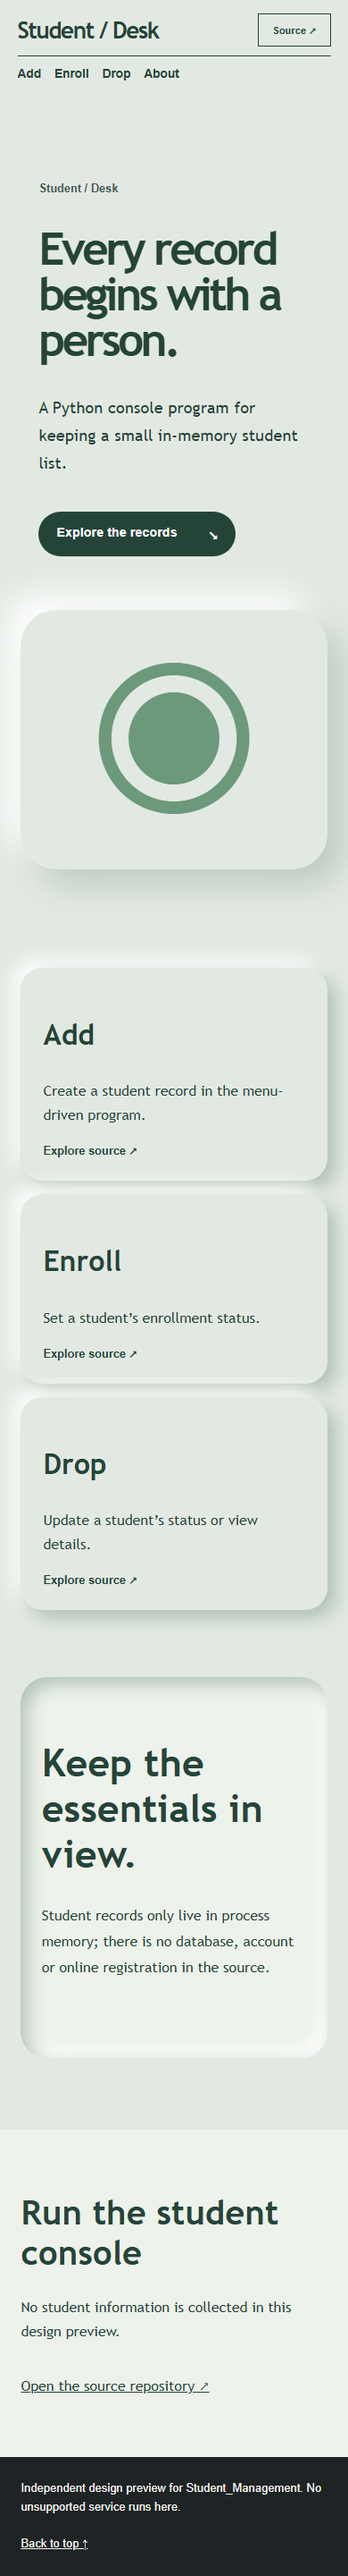
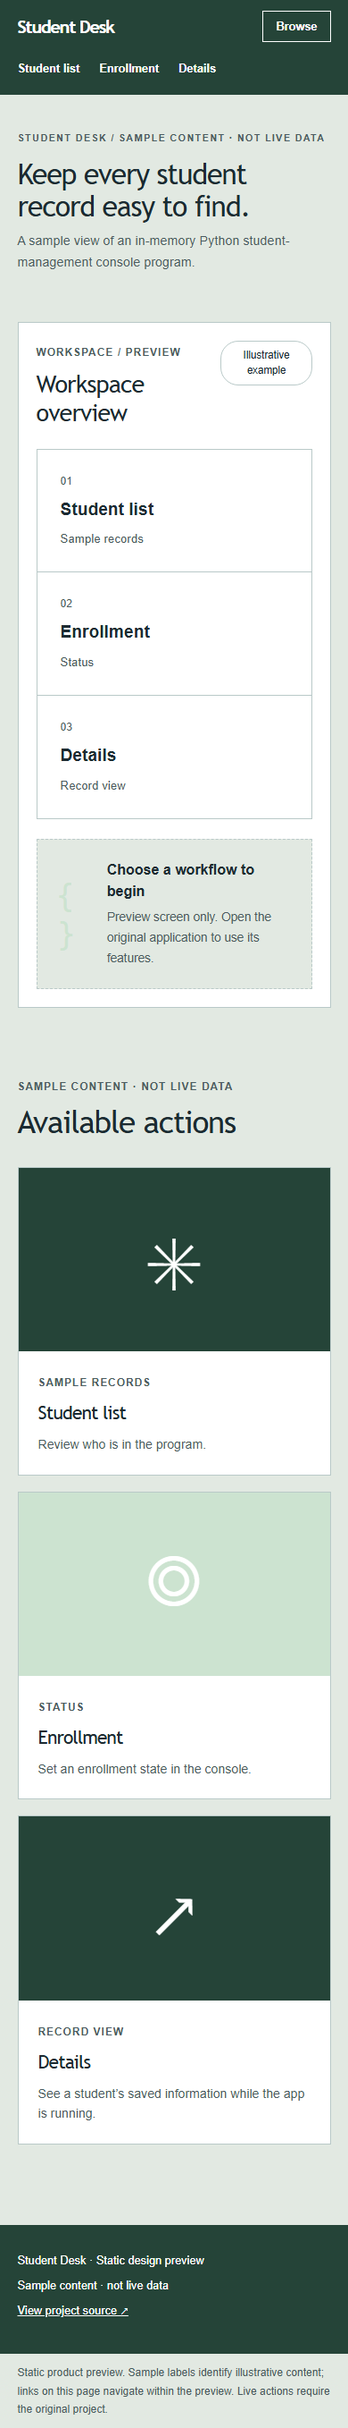
feat: show product-first static homepage preview

diff --git a/showcase-design/product.css b/showcase-design/product.css
@@ -1,0 +1,27 @@
+:root{--p-bg:#e2e9e2;--p-ink:#1c2b31;--p-accent:#cce3d0;--p-card:#ffffff;--p-muted:#4c5c61;--p-border:#b9c9c8;--p-head:#254438;--p-head-ink:#ffffff;}
+
+/* Product-first preview. Preserve the original design's palette and assets. */
+body.product-page{background:var(--p-bg);color:var(--p-ink);font-family:Arial,'Segoe UI',sans-serif;line-height:1.5;margin:0}
+.product-page *{box-sizing:border-box}.product-page a{color:inherit}.product-page a:focus-visible{outline:3px solid var(--p-accent);outline-offset:4px}.product-page h1,.product-page h2,.product-page h3{overflow-wrap:anywhere;letter-spacing:-.035em}.product-page p{max-width:68ch}
+.p-skip{position:absolute;top:-90px;left:12px;background:var(--p-card);padding:10px;z-index:10}.p-skip:focus{top:10px}
+.p-nav{min-height:76px;display:flex;align-items:center;gap:24px;padding:12px 5%;background:var(--p-head);color:var(--p-head-ink)}
+.p-brand{text-decoration:none;font:bold clamp(1.25rem,2vw,1.9rem)/1.1 Georgia,serif;letter-spacing:-.06em;flex:0 0 auto}
+.p-nav nav{display:flex;gap:22px;margin-left:auto;overflow-x:auto;scrollbar-width:thin}.p-nav nav a,.p-nav-extra{font:600 .8rem Arial,sans-serif;text-decoration:none;white-space:nowrap}.p-nav nav a:hover,.p-nav-extra:hover{text-decoration:underline;text-underline-offset:4px}.p-nav-extra{border:1px solid currentColor;padding:9px 14px}
+.p-heading{display:grid;grid-template-columns:1.2fr .8fr;min-height:470px;align-items:stretch;border-bottom:1px solid var(--p-border)}.p-copy{padding:72px 7% 64px 9%;display:flex;flex-direction:column;justify-content:center}.p-overline,.p-item small,.p-section-title small,.p-work-head small,.p-newspaper .p-edition{font:700 .72rem Arial,sans-serif;text-transform:uppercase;letter-spacing:.11em;color:var(--p-muted)}
+.p-heading h1{font:normal clamp(3rem,5vw,5.6rem)/1.03 Georgia,serif;margin:18px 0}.p-copy>p{font-size:1.05rem;color:var(--p-muted);line-height:1.7}.p-action{align-self:flex-start;padding:13px 20px;border:1px solid var(--p-ink);text-decoration:none;margin-top:16px;font:700 .87rem Arial,sans-serif}.p-action:hover{background:var(--p-head);color:var(--p-head-ink)}
+.p-hero-image,.p-hero-graphic{min-height:340px;background:var(--p-head);display:grid;place-items:center;overflow:hidden}.p-hero-image img{width:100%;height:100%;max-height:560px;object-fit:cover}.p-hero-graphic span{color:var(--p-accent);font:normal clamp(11rem,25vw,27rem)/1 Georgia,serif}
+.p-newspaper{text-align:center;padding:34px 5% 25px;border-block:3px double var(--p-border)}.p-newspaper h1{font:normal clamp(3.5rem,8vw,8rem)/1 Georgia,serif;margin:14px 0;letter-spacing:-.06em}.p-newspaper p{margin:auto;color:var(--p-muted)}
+.p-front{display:grid;grid-template-columns:1.65fr .8fr;margin:36px 5%;border-block:1px solid var(--p-border)}.p-lead{padding:38px 5% 42px 0;border-right:1px solid var(--p-border)}.p-lead h2{font:normal clamp(2.8rem,5vw,5.5rem)/1.07 Georgia,serif;max-width:14ch;margin:20px 0}.p-lead p{color:var(--p-muted)}.p-front aside{padding:30px 0 25px 8%}.p-front aside>b{font-size:1rem}.p-front aside a{display:flex;gap:20px;padding:20px 0;border-bottom:1px solid var(--p-border);text-decoration:none}.p-front aside span{font-size:.8rem;color:var(--p-muted)}
+.p-shopbar{display:flex;justify-content:space-between;align-items:center;gap:22px;flex-wrap:wrap;padding:28px 5%;background:var(--p-card);border-block:1px solid var(--p-border)}.p-shopbar b{font:normal 1.6rem Georgia,serif}.p-shopbar span{font-size:.85rem;color:var(--p-muted)}.p-shopbar a{font-size:.85rem}
+.p-workspace{margin:42px 5% 30px;padding:30px;background:var(--p-card);border:1px solid var(--p-border)}.p-work-head{display:flex;justify-content:space-between;align-items:center;gap:20px}.p-work-head h2{font:normal clamp(1.7rem,3vw,2.8rem) Georgia,serif;margin:8px 0 25px}.p-chip{font-size:.72rem;padding:7px 10px;border:1px solid var(--p-border);border-radius:20px}.p-steps{display:grid;grid-template-columns:repeat(3,minmax(0,1fr));border:1px solid var(--p-border)}.p-steps a{padding:26px;border-right:1px solid var(--p-border);text-decoration:none;display:grid;gap:9px}.p-steps a:last-child{border-right:0}.p-steps a:hover{background:var(--p-bg)}.p-steps a>span{font-size:.75rem;color:var(--p-muted)}.p-steps a>b{font-size:1.2rem}.p-steps a>small{color:var(--p-muted)}.p-preview{margin-top:22px;min-height:116px;display:flex;align-items:center;gap:26px;padding:22px;background:var(--p-bg);border:1px dashed var(--p-border)}.p-preview-mark{font:2.3rem Consolas,monospace;color:var(--p-accent)}.p-preview p{margin:5px 0 0;color:var(--p-muted);font-size:.85rem}
+.p-collection{padding:64px 5% 90px}.p-section-title{display:flex;justify-content:space-between;gap:25px;align-items:end;margin-bottom:30px}.p-section-title h2{font:normal clamp(2rem,4vw,4rem)/1.1 Georgia,serif;margin:10px 0 0}.p-section-title p{font-size:.8rem;color:var(--p-muted);max-width:23rem;margin:0}.p-grid{display:grid;grid-template-columns:repeat(3,minmax(0,1fr));gap:18px}.p-item{border:1px solid var(--p-border);background:var(--p-card);min-width:0}.p-image{aspect-ratio:1.7;overflow:hidden;display:grid;place-items:center;background:var(--p-head)}.p-image img{width:100%;height:100%;object-fit:cover}.p-image>span{font:normal 5rem Georgia,serif;color:var(--p-accent)}.p-item:nth-child(2) .p-image{background:var(--p-accent)}.p-item:nth-child(2) .p-image span{color:var(--p-head)}.p-item-info{padding:22px}.p-item h3{font:normal clamp(1.3rem,2.2vw,2rem)/1.1 Georgia,serif;margin:12px 0}.p-item p{font-size:.88rem;color:var(--p-muted);line-height:1.6;margin:0}
+.product-news .p-grid,.product-news_bn .p-grid{grid-template-columns:1.3fr 1fr 1fr}.product-news .p-image,.product-news_bn .p-image{aspect-ratio:2.3;background:var(--p-head)}.product-news .p-item,.product-news_bn .p-item{border-width:0 0 1px 0;background:transparent}.product-news .p-item-info,.product-news_bn .p-item-info{padding-left:0}
+.product-store .p-image,.product-commerce .p-image{aspect-ratio:1.1}.product-events .p-item{border-top:4px solid var(--p-accent)}.product-game .p-image,.product-compiler .p-image,.product-notebook .p-image{background:var(--p-head);aspect-ratio:2.4}.product-portfolio .p-grid,.product-architecture .p-grid{gap:28px}.product-empty .p-collection{min-height:470px}
+.p-app-intro{padding:35px 5% 12px}.p-app-intro span{font:700 .7rem Arial,sans-serif;letter-spacing:.1em;text-transform:uppercase;color:var(--p-muted)}.p-app-intro h1{font:normal clamp(2rem,3.5vw,3.6rem)/1.12 Georgia,serif;margin:12px 0 8px}.p-app-intro p{font-size:.9rem;color:var(--p-muted);margin:0}.p-app-intro+.p-workspace{margin-top:14px}.p-story-label{display:inline-block;margin-top:20px;font-size:.8rem;border-top:1px solid var(--p-border);padding-top:12px}
+.product-events .p-heading,.product-store .p-heading,.product-commerce .p-heading{min-height:320px;grid-template-columns:1.25fr .75fr}.product-events .p-copy,.product-store .p-copy,.product-commerce .p-copy{padding-block:38px}.product-events .p-heading h1,.product-store .p-heading h1,.product-commerce .p-heading h1{font-size:clamp(2.7rem,4vw,4.7rem)}
+.p-image>span{color:var(--p-head-ink)}.p-item:nth-child(2) .p-image span{color:var(--p-head-ink)}.product-news .p-grid,.product-news_bn .p-grid{grid-template-columns:1fr 1fr}.product-news .p-item,.product-news_bn .p-item{border-width:1px 0 0 0;background:transparent}.product-news .p-item-info,.product-news_bn .p-item-info{padding:24px 0}.product-news .p-item h3,.product-news_bn .p-item h3{font-size:clamp(1.7rem,3vw,3rem)}
+.p-brand,.p-heading h1,.p-app-intro h1,.p-newspaper h1,.p-lead h2,.p-work-head h2,.p-section-title h2,.p-item h3{font-family:var(--display,var(--serif,var(--font,Georgia,serif)))}
+.p-footer{padding:30px 5%;display:flex;justify-content:space-between;flex-wrap:wrap;gap:16px;background:var(--p-head);color:var(--p-head-ink);font-size:.8rem}.p-footer a{color:inherit}.p-disclosure{max-width:none!important;padding:11px 5%;margin:0;font-size:.75rem;background:var(--p-bg);color:var(--p-muted)}
+@media(max-width:800px){.p-nav{flex-wrap:wrap;gap:12px}.p-nav nav{order:3;width:100%;padding:10px 0;margin-left:0}.p-nav-extra{margin-left:auto}.p-heading{display:block;min-height:0}.p-copy{padding:54px 6%}.p-heading h1{font-size:clamp(2.6rem,9vw,5rem)}.p-hero-image,.p-hero-graphic{height:260px;min-height:260px}.p-hero-graphic span{font-size:13rem}.p-front{display:block}.p-lead{border-right:0;border-bottom:1px solid var(--p-border)}.p-front aside{padding:25px 0}.p-grid{grid-template-columns:repeat(2,minmax(0,1fr))!important}.p-steps{grid-template-columns:1fr}.p-steps a{border-bottom:1px solid var(--p-border);border-right:0!important}.p-steps a:last-child{border-bottom:0}.p-section-title{display:block}.p-section-title p{margin-top:15px}.p-workspace{padding:20px}}
+@media(max-width:550px){.p-grid{grid-template-columns:1fr!important}.p-collection{padding-top:45px}.p-section-title h2{font-size:2.2rem}.p-work-head{align-items:flex-start}.p-chip{max-width:115px;text-align:center}.p-front{margin-top:18px}.p-newspaper h1{font-size:3rem}.p-footer{display:block}.p-footer>*{display:block;margin-bottom:9px}}
+@media(prefers-reduced-motion:reduce){html{scroll-behavior:auto}}

diff --git a/showcase-design/index.html b/showcase-design/index.html
@@ -1,1 +1,1 @@
-<!doctype html><html lang="en"><head><meta charset="utf-8"><meta name="viewport" content="width=device-width,initial-scale=1"><meta name="description" content="A Python console program for keeping a small in-memory student list."><title>Student / Desk — Every record begins with a person.</title><link rel="stylesheet" href="styles.css"></head><body><a class="skip" href="#main">Skip to content</a><header class="mast" id="top"><a class="brand" href="#top">Student / Desk</a><nav aria-label="Main navigation"><a href="#topic-0">Add</a><a href="#topic-1">Enroll</a><a href="#topic-2">Drop</a><a href="#about">About</a></nav><a class="top-action" href="https://github.com/Athaher-Sayem/Student_Management/tree/Shocase_design" target="_blank" rel="noopener noreferrer">Source ↗</a></header><main id="main"><section class="hero"><div class="hero-copy"><span class="intro-tag">Student / Desk</span><h1>Every record begins with a person.</h1><p>A Python console program for keeping a small in-memory student list.</p><a class="cta" href="#browse">Explore the records <span aria-hidden="true">↘</span></a></div><div class="hero-art" aria-label="Abstract decorative illustration"></div></section><section id="browse" class="topics" aria-label="Explore topics"><a id="topic-0" href="https://github.com/Athaher-Sayem/Student_Management/blob/Shocase_design/Student.py" target="_blank" rel="noopener noreferrer"><h3>Add</h3><p>Create a student record in the menu-driven program.</p><span>Explore source ↗</span></a><a id="topic-1" href="https://github.com/Athaher-Sayem/Student_Management/blob/Shocase_design/Student.py" target="_blank" rel="noopener noreferrer"><h3>Enroll</h3><p>Set a student’s enrollment status.</p><span>Explore source ↗</span></a><a id="topic-2" href="https://github.com/Athaher-Sayem/Student_Management/blob/Shocase_design/Student.py" target="_blank" rel="noopener noreferrer"><h3>Drop</h3><p>Update a student’s status or view details.</p><span>Explore source ↗</span></a></section><section id="about" class="feature"><h2>Keep the essentials in view.</h2><p>Student records only live in process memory; there is no database, account or online registration in the source.</p></section><section class="source"><h2>Run the student console</h2><p>No student information is collected in this design preview.</p><a href="https://github.com/Athaher-Sayem/Student_Management/tree/Shocase_design" target="_blank" rel="noopener noreferrer">Open the source repository ↗</a></section></main><footer class="footer"><span>Independent design preview for Student_Management. No unsupported service runs here.</span><a href="#top">Back to top ↑</a></footer></body></html>
+<!doctype html><html lang="en"><head><meta charset="utf-8"><meta name="viewport" content="width=device-width,initial-scale=1"><meta name="description" content="A sample view of an in-memory Python student-management console program."><title>Student Desk — Keep every student record easy to find.</title><link rel="stylesheet" href="styles.css"><link rel="stylesheet" href="product.css"></head><body class="product-page product-utility"><a class="p-skip" href="#main">Skip to content</a><header class="p-nav"><a class="p-brand" href="#home">Student Desk</a><nav aria-label="Sections"><a href="#item-0">Student list</a><a href="#item-1">Enrollment</a><a href="#item-2">Details</a></nav><a class="p-nav-extra" href="#items">Browse</a></header><main id="main"><section class="p-app-intro" id="home"><span>Student Desk / Sample content · not live data</span><h1>Keep every student record easy to find.</h1><p>A sample view of an in-memory Python student-management console program.</p></section><div id="workspace"><section class="p-workspace"><div class="p-work-head"><div><small>WORKSPACE / PREVIEW</small><h2>Workspace overview</h2></div><span class="p-chip">Illustrative example</span></div><div class="p-steps"><a href="#item-0"><span>01</span><b>Student list</b><small>Sample records</small></a><a href="#item-1"><span>02</span><b>Enrollment</b><small>Status</small></a><a href="#item-2"><span>03</span><b>Details</b><small>Record view</small></a></div><div class="p-preview"><span class="p-preview-mark" aria-hidden="true">{ }</span><div><b>Choose a workflow to begin</b><p>Preview screen only. Open the original application to use its features.</p></div></div></section></div><section id="items" class="p-collection"><div class="p-section-title"><div><small>Sample content · not live data</small><h2>Available actions</h2></div></div><div class="p-grid utility"><article class="p-item" id="item-0"><div class="p-image utility"><span aria-hidden="true">✳</span></div><div class="p-item-info"><small>Sample records</small><h3>Student list</h3><p>Review who is in the program.</p></div></article><article class="p-item" id="item-1"><div class="p-image utility"><span aria-hidden="true">◎</span></div><div class="p-item-info"><small>Status</small><h3>Enrollment</h3><p>Set an enrollment state in the console.</p></div></article><article class="p-item" id="item-2"><div class="p-image utility"><span aria-hidden="true">↗</span></div><div class="p-item-info"><small>Record view</small><h3>Details</h3><p>See a student’s saved information while the app is running.</p></div></article></div></section></main><footer class="p-footer"><span>Student Desk · Static design preview</span><span>Sample content · not live data</span><a href="https://github.com/Athaher-Sayem/Student_Management/tree/Shocase_design" target="_blank" rel="noopener noreferrer">View project source ↗</a></footer><p class="p-disclosure">Static product preview. Sample labels identify illustrative content; links on this page navigate within the preview. Live actions require the original project.</p></body></html>
